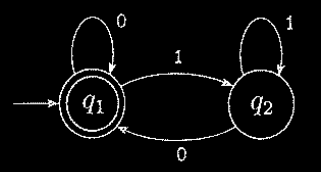
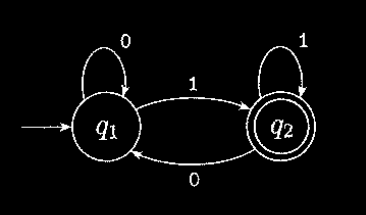
28 SET 2026

Changed region(s): [[0.0312, 0.0581, 0.9346, 0.9593], [0.9034, 0.5233, 0.9346, 0.6977], [0.2492, 0.0872, 0.3115, 0.1453]]

diff --git a/TERZO ANNO - 1° SEM. (2026-27)/AUTOMI, CALCOLABILITA' E COMPLESSITA'/ACC_02 - Automi.md b/TERZO ANNO - 1° SEM. (2026-27)/AUTOMI, CALCOLABILITA' E COMPLESSITA'/ACC_02 - Automi.md
@@ -56,7 +56,7 @@ ___
 
 Riprendiamo l'automa visto in precedenza, $M_{1}$, che ricordiamo essere definito da tale diagramma di stato:
 
-![[automa_esempio4 1.png]]
+![[automa_esempio5.png]]
 
 Cerchiamo di formalizzare $M_{1}$ sulla base della definizione appena data. Costruiamo dunque la tupla $(Q,\,\Sigma,\,\delta,\,q_{0},\,F)$:
 - $Q$ è l'insieme degli stati di $M_{1}$, dunque sarà $\{q_{1},\,q_{2},\,q_{3}\}$;
@@ -77,7 +77,7 @@ $$L(M_{1})=\{w\,|\,w\text{ contiene almeno un } 1\text{ e un numero pari di } 0\
 
 Andiamo avanti, e vediamo un nuovo esempio $M_{2}$ di automa finito, identificato dal seguente diagramma:
 
-![[automa_esempio4 1.png]]
+![[automa_esempio5.png]]
 
 In questo caso, abbiamo:
 - $Q=\{q_{1},\,q_{2}\}$;
@@ -97,14 +97,14 @@ $$L(M_{2})=\{w\,|\,w\text{ termina con un }1\}$$
 
 Passiamo a un altro esempio, con l'automa finito $M_{3}$:
 
-![[automa_esempio5.png]]
+![[automa_esempio6.png]]
 
 Notiamo subito, ad occhio, che $M_{3}$ è quasi identico a $M_{2}$, con la sola eccezione che $F=\{q_{1}\}$, dunque troviamo un caso particolare in cui lo stato iniziale è anche lo stato finale dell'automa. Data questa particolarità, possiamo subito affermare con certezza che $M_{3}$ accetta la stringa vuota $\epsilon$. Oltre a ciò, si può osservare che $M_{3}$ accetta tutte le sequenze che terminano con uno $0$, dunque abbiamo che:
 $$L(M_{3})=\{w\,|\,w\text{ è la stringa vuota }\epsilon\text{ oppure termina con uno 0}\}$$
 
 Vediamo un ultimo esempio, con l'automa $M_{4}$:
 
-![[automa_esempio6.png]]
+![[automa_esempio7.png]]
 
 In questo caso, si ha $Q=\{q_{0},\,q_{1},\,q_{2}\}$ e $\Sigma=\{(RESET),\,0,\,1,\,2\}$, con $q_{0}$ come stato iniziale e stato accettante. Seppur possa sembrare particolarmente complessa rispetto agli esempi visti finora, si tratta di un automa che svolge una mansione molto semplice: conserva al suo interno la somma parziale dei simboli che legge in input, modulo $3$ (se $M_{4}$ si trova in $q_{0}$ tale somma vale $0$, se si trova in $q_{1}$ tale somma vale $1$, e così via), e ogni volta che riceve il simbolo $(RESET)$ riporta il conto a $0$. Con questo chiarimento, diventa palese che $M_{4}$ accetta tutte le sequenze che risultano in una somma pari a $0\text{ mod }3$, ossia in una somma che è multipla di $3$.
 ___
@@ -131,7 +131,46 @@ ___
 
 Ora che siamo perfettamente coscienti di cosa sia un automa finito, delle componenti che lo caratterizzano, e del concetto di linguaggio, dovremmo avere tutti gli strumenti per essere in grado di **progettare un automa finito che riconosca un determinato linguaggio**. Per fare ciò, nonostante non ci siano formule immediate o metodi infallibili, è comunque possibile seguire alcune linee guida e consigli, che sicuramente facilitano molto la progettazione.
 
+Innanzitutto, può essere utile approcciarsi al problema **immedesimandosi nell'automa da progettare**: in altre parole, conviene immaginare di dover analizzare l'input in prima persona, in modo da capire meglio se la stringa di simboli vista finora appartiene al linguaggio che si vuole riconoscere. Per prendere queste decisioni, occorre capire **cosa è utile ricordare della stringa letta**: sarà, infatti, pressoché impossibile ricordarla tutta (data la finitezza della memoria di un automa finito), e ciononostante risulterebbe in soluzioni incredibilmente complesse, inefficienti e poco eleganti. Le informazioni necessarie da ricordare dipendono dal linguaggio, dunque sarà nostro compito reinterpretare la definizione del linguaggio fornito, in modo da identificarne le caratteristiche fondamentali e osservarle nell'automa.
 
+Vediamo un esempio, in modo da concretizzare quanto detto finora. Supponiamo di avere l'alfabeto $\Sigma=\{0,\,1\}$, e il linguaggio:
+$$L=\{w\,|\,w\text{ contiene un numero dispari di 1}\}$$
+e di voler costruire un automa finito $E_{1}$ che riconosca il linguaggio $L$. Naturalmente, supponendo di ricevere in input, un simbolo per volta, una qualsiasi sequenza di $0$ e $1$, non sarà necessario (né possibile) ricordare l'intera sequenza per verificarne la validità, ma basterà tenere traccia dell'unica informazione fondamentale: la parità o disparità del numero di $1$. Per memorizzare questa informazione, utilizziamo un meccanismo molto semplice: se viene letto un $1$, la risposta viene cambiata (ovviamente, se finora abbiamo letto un numero pari di $1$ e ne leggiamo un altro, tale numero diventerà dispari, e viceversa); se viene letto uno $0$, la risposta rimane invariata.
 
-[pag. 34]
+Siamo arrivati, dunque, a un ragionamento semplice e diretto che ci permette di memorizzare l'informazione richiesta. Ma come possiamo applicare questa conoscenza per progettare $E_{1}$? Per fare ciò, bisogna **rappresentare le informazioni memorizzate come una lista finita di possibilità**, che diventeranno l'insieme finito degli stati dell'automa. Nel nostro esempio, le possibilità sono due, ossia:
+- la stringa letta finora ha un numero pari di $1$;
+- la stringa letta finora ha un numero dispari di $1$.
+
+Dunque, assegnando uno stato per ciascuna di queste possibilità (ad esempio, $q_{\text{even}}$ per la prima e $q_{\text{odd}}$ per la seconda), cominciamo ad abbozzare il nostro automa $E_{1}$:
+
+![[automa_esempio8.png]]
+
+A questo punto, definiamo le transizioni che collegano questi stati, e fare ciò sarà facile dato che abbiamo già definito, in precedenza, il ragionamento da seguire per memorizzare l'informazione desiderata: a prescindere dallo stato in cui ci troviamo, ricevere in input un $1$ porterà l'automa a cambiare stato, mentre ricevere uno $0$ lascerà lo stato invariato. Dunque:
+
+![[automa_esempio9.png]]
+
+Ora rimangono da definire solo lo stato iniziale e l'insieme degli stati accettanti. Lo stato iniziale corrisponderà alla possibilità associata all'aver letto la stringa vuota $\epsilon$, dunque nel nostro esempio con l'aver letto $0$ volte un $1$, e dato che consideriamo $0$ come un numero pari lo stato iniziale sarà $q_{\text{even}}$. Per quanto riguarda gli stati accettanti, per la definizione del linguaggio l'unico stato accettante dovrà necessariamente essere $q_{\text{odd}}$, per cui l'automa $E_{1}$ assume la seguente forma:
+
+![[automa_esempio10.png]]
+
+Vediamo un altro esempio, leggermente più complesso. Supponiamo di avere nuovamente lo stesso alfabeto $\Sigma=\{0,\,1\}$, e di voler progettare un automa finito $E_{2}$ che riconosca il linguaggio:
+$$L=\{w\,|\,w\text{ contiene al suo interno la sotto-stringa }001\}$$
+Il nostro obiettivo, nel leggere la stringa un simbolo alla volta, sarà dunque memorizzare se, finora, abbiamo letto la sotto-stringa di simboli $001$, e per fare ciò sarà utile memorizzare anche le "possibilità intermedie" che devono verificarsi prima del nostro obiettivo, ossia:
+- la lettura di uno $0$;
+- la lettura di $00$;
+- la lettura di $001$.
+
+Il ragionamento, in poche parole, è questo: inizialmente, si ignorano tutti gli $1$ che vengono letti nell'input; non appena si legge uno $0$, memorizziamo tale evento e leggiamo il simbolo successivo; se leggiamo un altro $0$, memorizziamo di aver letto $00$ e leggiamo il simbolo successivo, mentre se leggiamo un $1$ torniamo allo stato iniziale; infine, se leggiamo un $1$ dopo due $0$, sappiamo che la stringa contiene la sotto-stringa $001$, dunque in seguito a ciò qualsiasi input non cambierà questa certezza. La lista delle possibilità può essere tradotta nei seguenti 4 stati:
+- non si è ancora visto lo $0$ iniziale della sotto-stringa;
+- si è visto il primo $0$ della sotto-stringa;
+- si è visto il secondo $0$ della sotto-stringa;
+- si è visto l'$1$ finale della sotto-stringa.
+
+Con le considerazioni fatte, possiamo costruire l'automa finito $E_{2}$:
+
+![[automa_esempio11.png]]
+___
+## Operazioni regolari
+
+[pag. 36]
 ___
